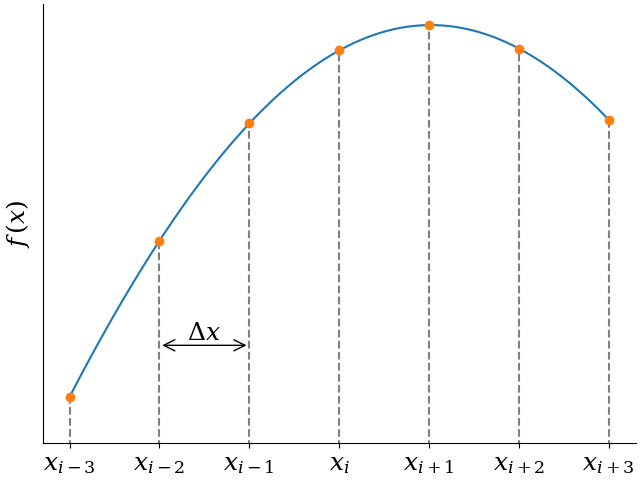
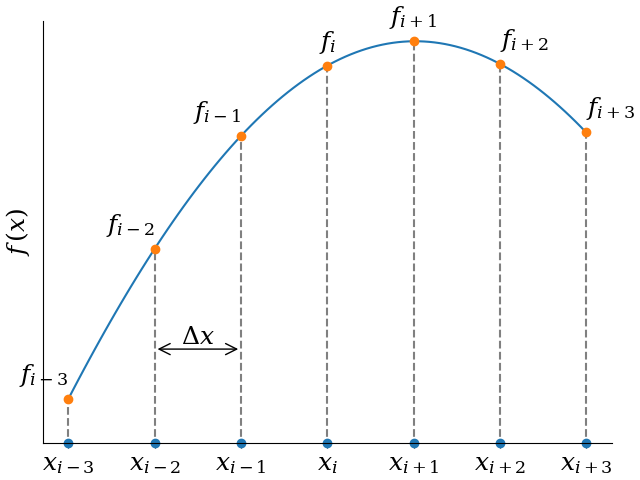
Plot function on grid

diff --git a/docs/conf.py b/docs/conf.py
@@ -19,6 +19,7 @@
 #
 import os
 import sys
+
 sys.path.insert(0, os.path.abspath('.'))
 sys.path.insert(0, os.path.abspath('..'))
 
@@ -26,17 +27,15 @@ sys.path.insert(0, os.path.abspath('..'))
 
 # If your documentation needs a minimal Sphinx version, state it here.
 #
-#needs_sphinx = '1.4.3'
+# needs_sphinx = '1.4.3'
 
 # Add any Sphinx extension module names here, as strings. They can be
 # extensions coming with Sphinx (named 'sphinx.ext.*') or your custom
 # ones.
 extensions = ['sphinx.ext.autodoc', 'sphinx.ext.imgmath', 'sphinx.ext.intersphinx',
               'IPython.sphinxext.ipython_console_highlighting',
-              'IPython.sphinxext.ipython_directive'
+              'IPython.sphinxext.ipython_directive',
               ]
-
-
 
 # Add any paths that contain templates here, relative to this directory.
 templates_path = ['_templates']
@@ -82,7 +81,6 @@ pygments_style = 'sphinx'
 # If true, `todo` and `todoList` produce output, else they produce nothing.
 todo_include_todos = False
 
-
 # -- Options for HTML output ----------------------------------------------
 
 # The theme to use for HTML and HTML Help pages.  See the documentation for
@@ -113,12 +111,10 @@ html_sidebars = {
     ]
 }
 
-
 # -- Options for HTMLHelp output ------------------------------------------
 
 # Output file base name for HTML help builder.
 htmlhelp_basename = 'findiffdoc'
-
 
 # -- Options for LaTeX output ---------------------------------------------
 
@@ -148,7 +144,6 @@ latex_documents = [
      'Matthias Baer', 'manual'),
 ]
 
-
 # -- Options for manual page output ---------------------------------------
 
 # One entry per manual page. List of tuples
@@ -157,7 +152,6 @@ man_pages = [
     (master_doc, 'findiff', 'findiff Documentation',
      [author], 1)
 ]
-
 
 # -- Options for Texinfo output -------------------------------------------
 
@@ -175,4 +169,4 @@ imgmath_dvipng_args = ['-gamma', '2.5', '-D', '350', '-bg', 'Transparent']
 imgmath_font_size = 14
 
 autoclass_content = 'both'
-#mathjax_path = 'https://cdnjs.cloudflare.com/ajax/libs/mathjax/2.7.4/MathJax.js'
+# mathjax_path = 'https://cdnjs.cloudflare.com/ajax/libs/mathjax/2.7.4/MathJax.js'

diff --git a/docs/scripts/plt_func_on_grid.py b/docs/scripts/plt_func_on_grid.py
@@ -28,9 +28,16 @@ ax.set_yticks(ticks=[], labels=[])
 
 ax.set_ylim(0.6, 1.02)
 
-for xi, fi in zip(x, f):
+for i, (xi, fi, label) in enumerate(zip(x, f, labels)):
     line = Line2D((xi, xi), (0, fi), color="grey", linestyle="--")
     ax.add_line(line)
+    txt = ax.text(xi, fi+0.01, label.replace("x", "f"), horizontalalignment="right", verticalalignment="bottom")
+
+    if i >= 3:
+        txt.set_horizontalalignment("center")
+
+    if i >= 5:
+        txt.set_horizontalalignment("left")
 
 ax.plot(x_fine, f_fine, "-")
 ax.plot(x, f, 'o')
@@ -43,13 +50,16 @@ ax.text(x[1] + dx/2, f[1] - 0.1, r"$\Delta x$", horizontalalignment="center", ve
 ax.spines["right"].set_visible(False)
 ax.spines["top"].set_visible(False)
 
-ax.spines["bottom"].set_linestyle("->")
+print(ax.yaxis.get_view_interval())
+bottom = ax.yaxis.get_view_interval()[0]
+ax.plot(x, [bottom]*len(x), 'o', clip_on=False, color="C0")
 
+xax = ax.xaxis.get_view_interval()
+yax = ax.yaxis.get_view_interval()
 
-#ax.plot(ax.xaxis.get_view_interval()[1], f[0], ">k", clip_on=False)
-#ax.plot(0, 1, "^k", clip_on=False)
-
-plt.savefig("func_on_grid.png")
+arrow = FancyArrowPatch((xax[0], yax[0]), (xax[0], yax[1]), arrowstyle='-|>', mutation_scale=20, clip_on=True)
+ax.add_patch(arrow)
+plt.savefig("../source/images/func_on_grid.png")
 
 plt.show()
 
